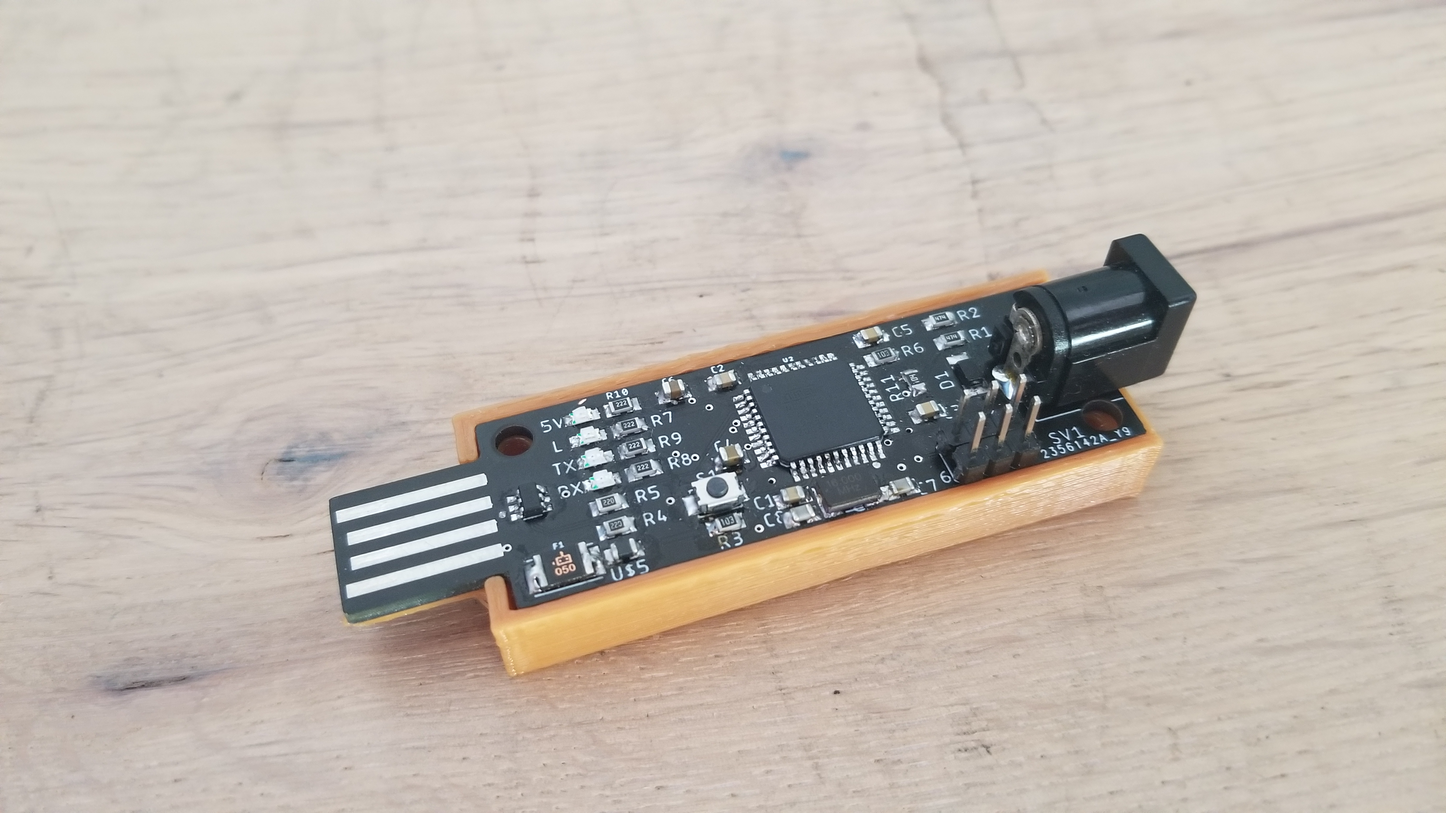
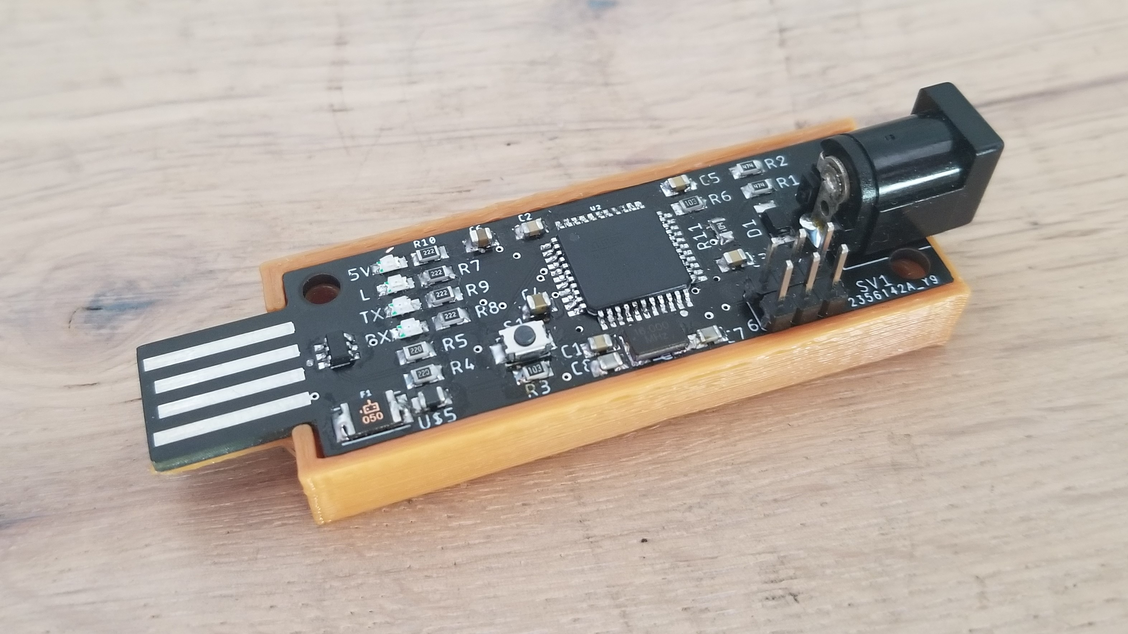
Cropped assembledUSB.jpg, edited README.md (reordered images and captions.

diff --git a/README.md b/README.md
@@ -4,10 +4,12 @@ A USB stick that sends a spacebar press when the doorbell is pressed. Used to wa
 
 Takes a AC signal through the barrel jack (doorbell wires). The onboard microcontroller acts as a USB keyboard while monitoring the signal for a drop in the average voltage (doorbell pressed). When it detects the decrease in voltage, it sends a spacebar keypress to wake the computer.
 
+Assembled WoD USB Dongle:
 ![Assembled WoD USB Dongle](/images/assembledUSB.jpg)
-Assembled WoD USB Dongle
 
+WoD USB Dongle installed on a PC
 ![Installed WoD USB Dongle](/images/installedUSB.jpg)
+
 
 ## The stick itself
 
@@ -15,10 +17,10 @@ v1.0
 Yay it works!
 No errors found during testing and use.
 
-![Render of Case](/images/caseRender.jpg)
+![Render of PCB](/images/pcbRender.jpg)
 
 ## Case
 
 A press fit case for the PCB. It has some screw holes, but the press fit is enough to hold it in. The tab for the USB connector is sized to increase the thickness of the connector to ~2.2mm.
 
-![Render of PCB](/images/pcbRender.jpg)
+![Render of Case](/images/caseRender.jpg)
